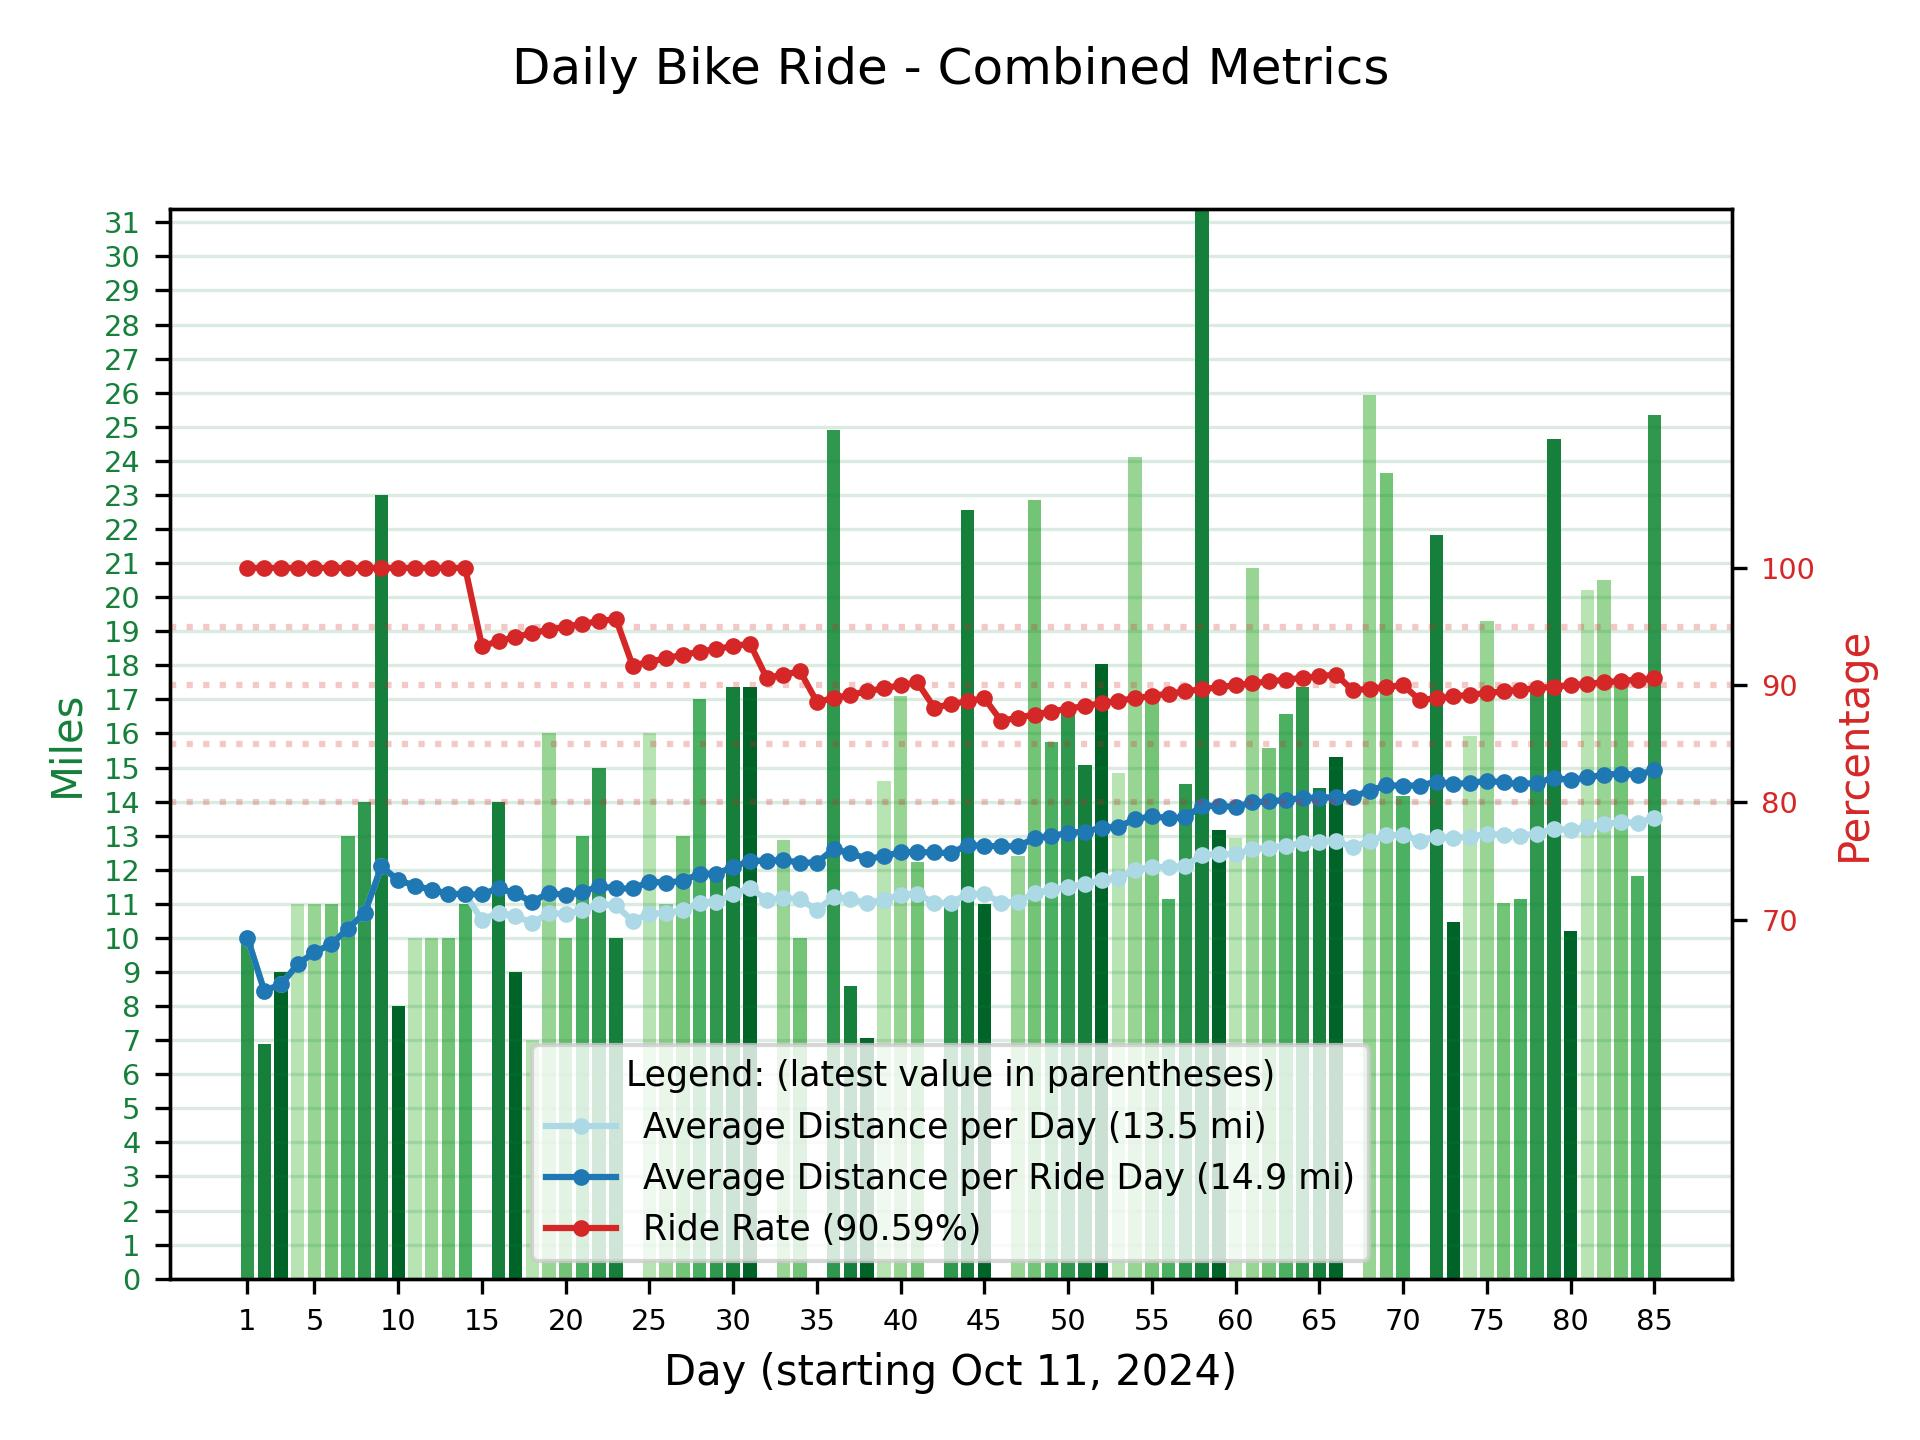
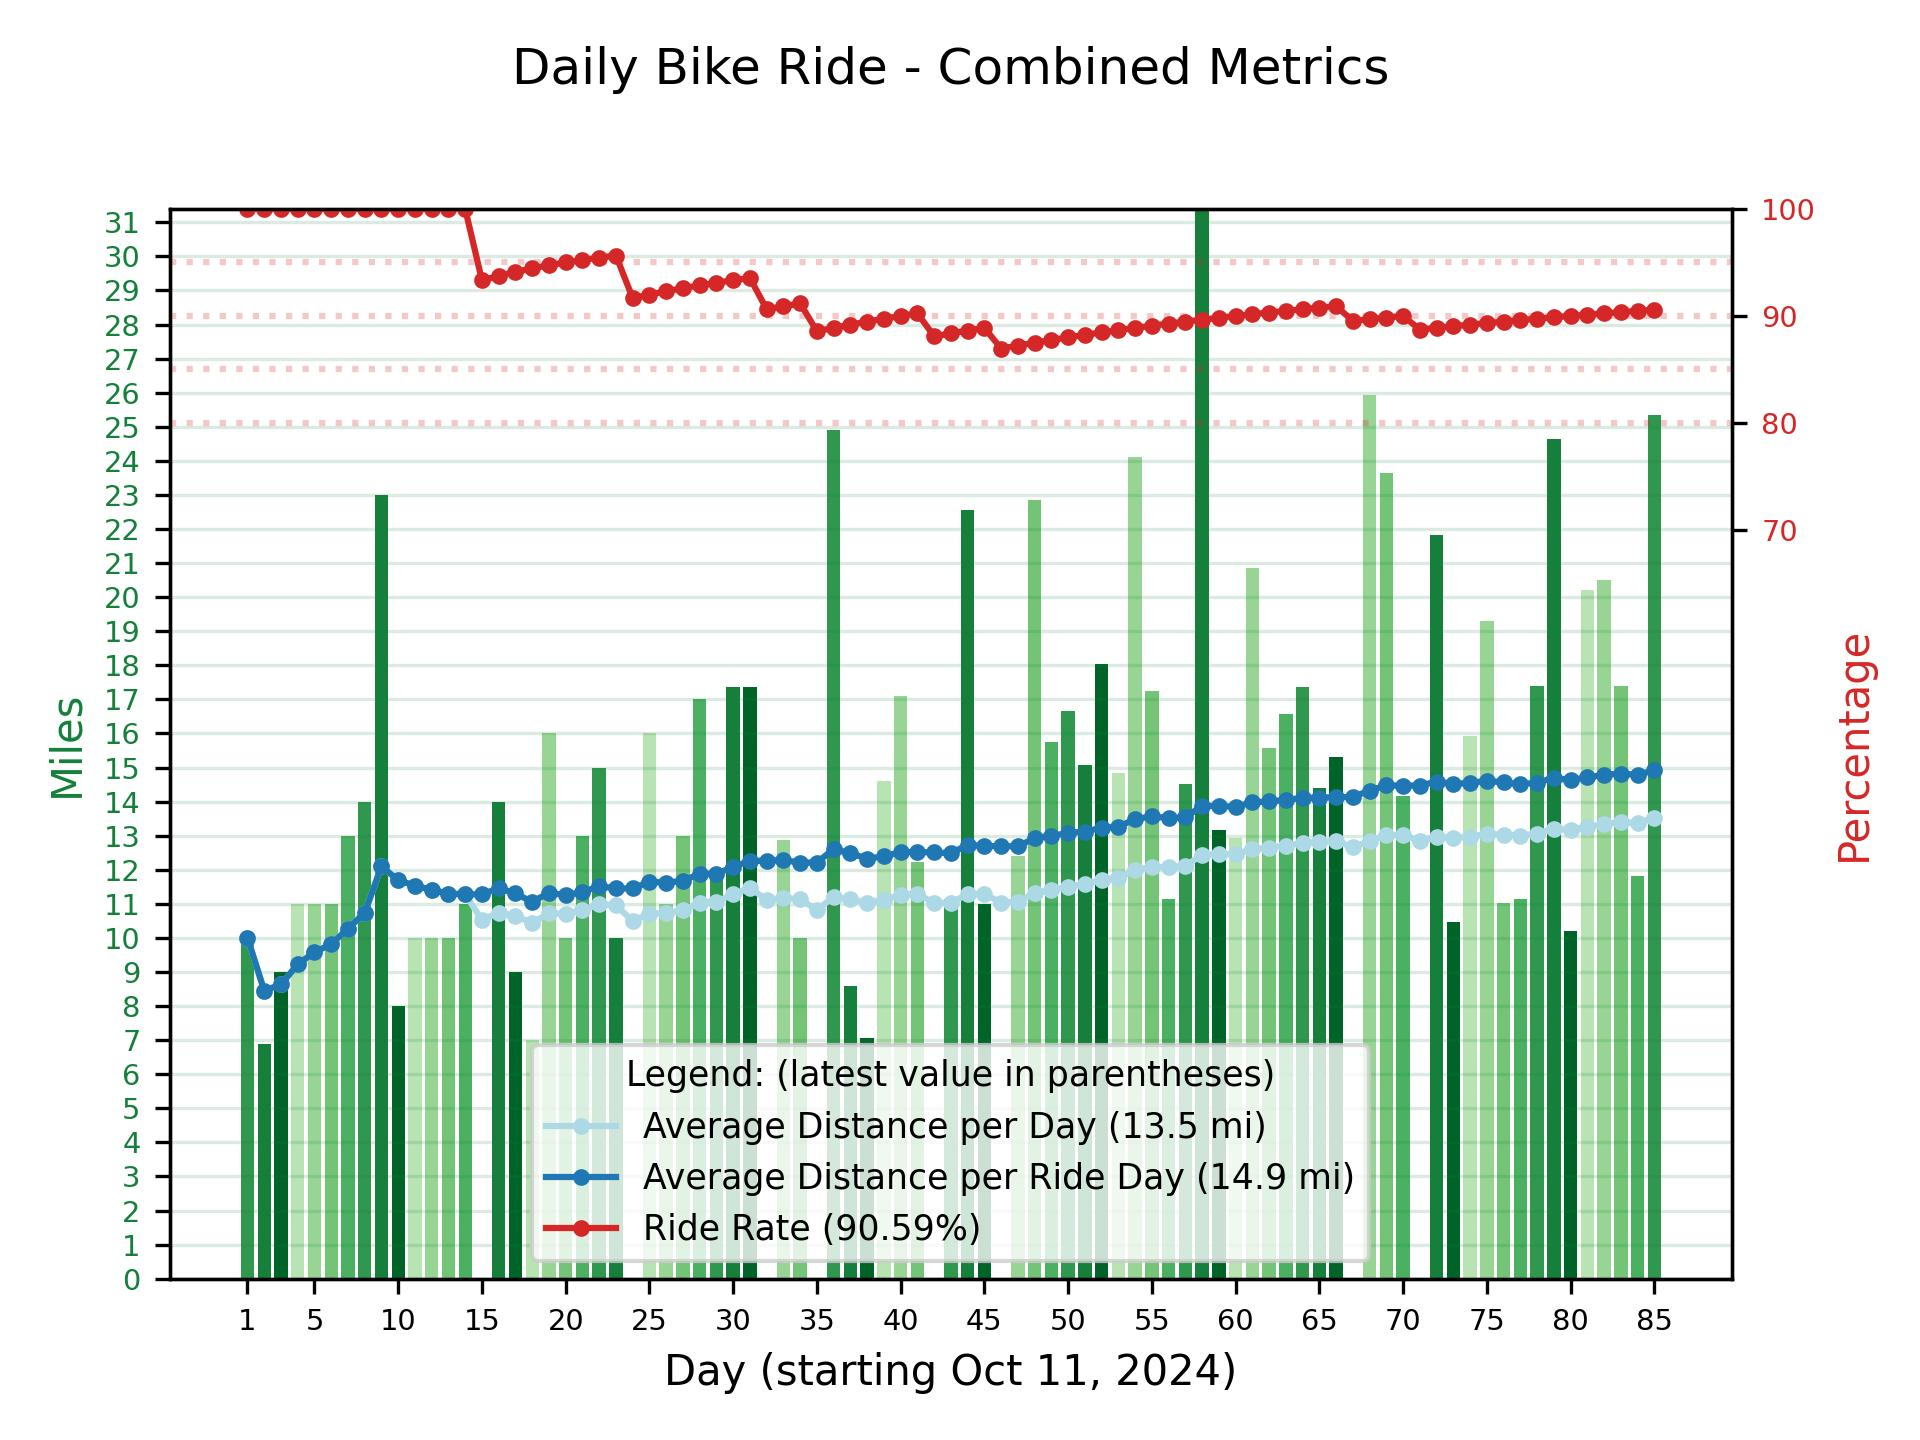
shrink ride rate graph vertically

diff --git a/src/biking/graph/base.py b/src/biking/graph/base.py
@@ -58,10 +58,12 @@ class Graph:
         color_arg = dict(color=color) if for_combined_graph else {}
         ax2 = ax1.twinx() if for_combined_graph else ax1
         ax2.set_ylabel("Percentage", **color_arg)
-        plt.ylim(70, max(ride_rate_y))
+        bottom_limit = 0 if for_combined_graph else 70
+        plt.ylim(bottom_limit, max(ride_rate_y))
         plt.yticks(range(70, 101, 10), **color_arg, fontsize="x-small")
 
-        ax2.set_aspect(0.70)
+        if not for_combined_graph:
+            ax2.set_aspect(0.70)
 
         for y in range(80, 100, 5):
             ax2.axhline(y, **color_arg, linestyle=":", alpha=0.25)

diff --git a/src/biking/graph/ride_rate.py b/src/biking/graph/ride_rate.py
@@ -29,5 +29,5 @@ class RideRateGraph(Graph):
 
         plt.tight_layout()
 
-        plt.savefig(self.output_file, dpi=300)
+        plt.savefig(self.output_file, dpi=300, bbox_inches="tight")
         print(f"Ride Rate saved to {self.output_file}.")
